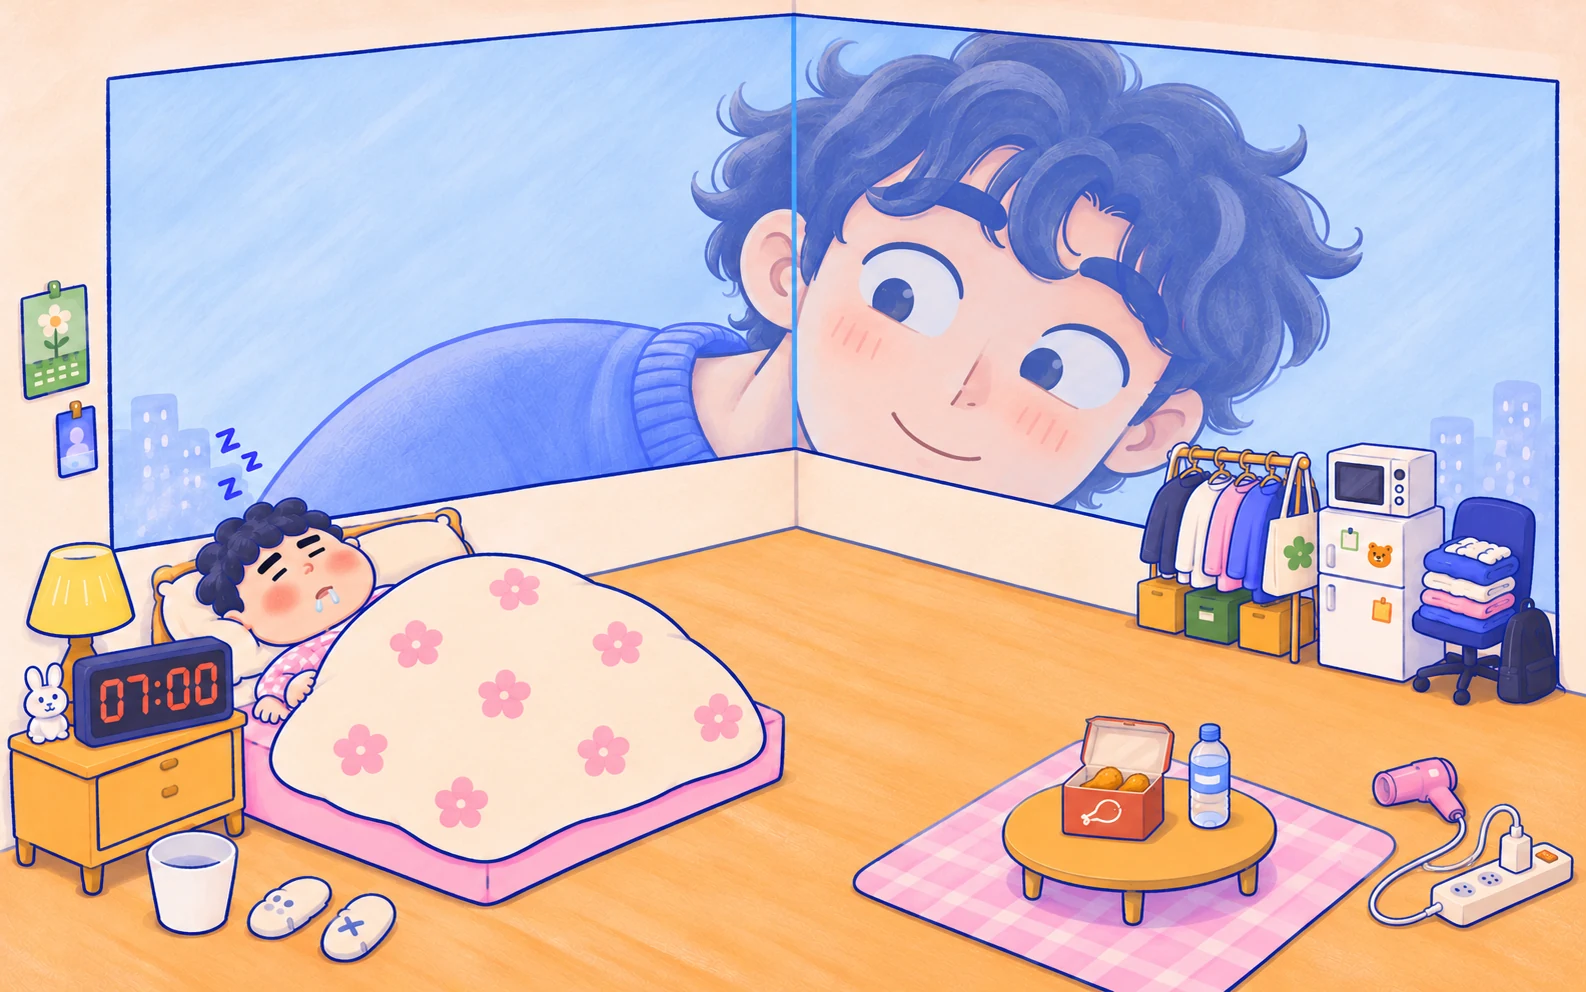
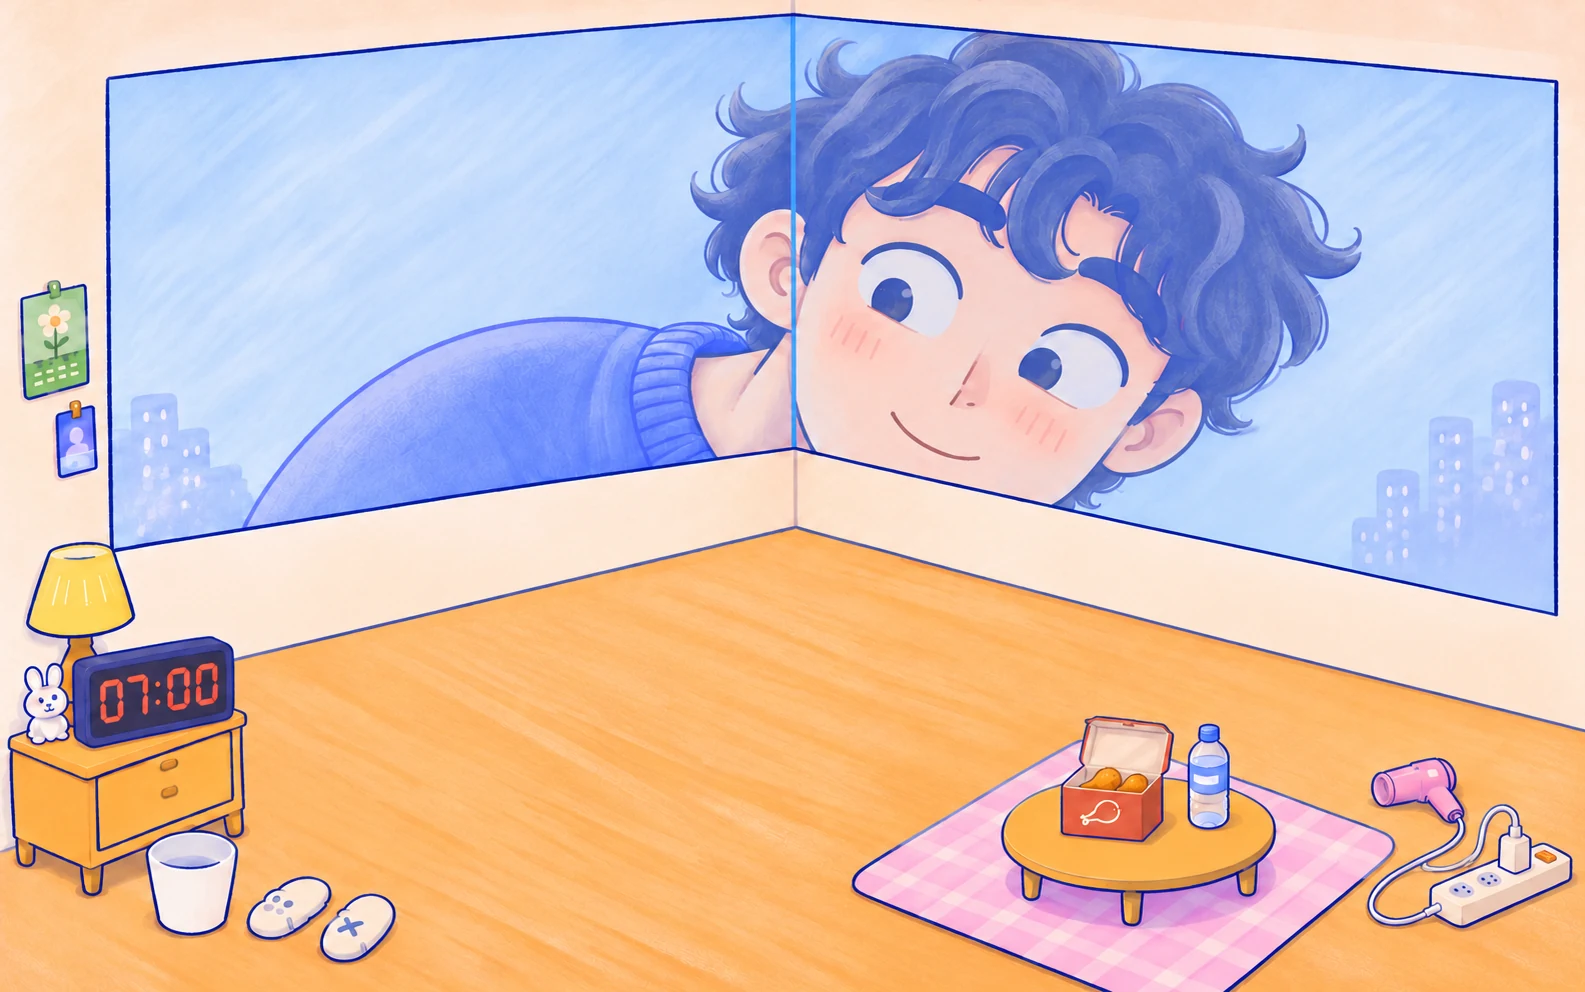
Keep window fixed during stronger comic shake

diff --git a/game-screen.css b/game-screen.css
@@ -15,7 +15,7 @@
 .play-screen:focus { outline: none; }
 
 .game-room {
-  --room-image: url("game-room.webp");
+  --room-image: url("game-room-backdrop.webp");
   position: relative;
   isolation: isolate;
   overflow: hidden;
@@ -25,35 +25,117 @@
   background: #d6e3f9;
   box-shadow: 0 8px 30px #31275723;
 }
-.game-room.camera-example { --room-image: url("game-room-example.webp"); }
-
-.room-art, .quake-layer { position: absolute; inset: 0; pointer-events: none; }
+.room-art, .room-window, .room-pane,
+.quake-layer, .shake-lines { position: absolute; inset: 0; pointer-events: none; }
 .room-art { background: var(--room-image) center / 100% 100% no-repeat; }
 
-/* Soft edges blend the moving areas back into the still window and floor. */
-.quake-layer { visibility: hidden; }
-.quake-bed {
-  mask-image: radial-gradient(ellipse 24% 29% at 31% 71%, #000 78%, transparent 100%), radial-gradient(ellipse 8.5% 13% at 9.8% 69.8%, #000 84%, transparent 100%);
-  mask-composite: subtract;
-  --jolt: 0.85cqw;
+/* The window panes sit on a still backdrop, behind all moving furniture. */
+.room-window { display: none; }
+.camera-example .room-window { display: block; }
+.room-pane {
+  background: url("game-room-example.webp") center / 100% 100% no-repeat;
 }
-.quake-shelf { mask-image: radial-gradient(ellipse 20% 22% at 85% 57%, #000 69%, transparent 100%); --jolt: -0.65cqw; }
+.room-pane-left { clip-path: polygon(7.08% 8.25%, 49.81% 1.62%, 49.81% 44.9%, 7.08% 55.3%); }
+.room-pane-right { clip-path: polygon(50.14% 1.62%, 97.96% 8.34%, 97.96% 61.75%, 50.14% 44.95%); }
+
+/* These two outlines contain the objects themselves, including their painted edges. */
+.quake-object, .room-sleep { --room-image: url("game-room.webp"); }
+.room-sleep { clip-path: polygon(13.35% 42.8%, 15.45% 42.8%, 16.7% 47.4%, 15.46% 47.7%, 15.46% 50.45%, 13.45% 50.45%); }
+.quake-bed {
+  --jolt: 1.46cqw;
+  --tilt: 1.15deg;
+  transform-origin: 30% 86%;
+  clip-path: polygon(
+    9.46% 63.91%, 9.27% 62.10%, 9.53% 60.18%, 9.46% 58.47%, 9.72% 57.46%,
+    10.28% 56.96%, 11.23% 57.16%, 12.24% 56.55%, 12.30% 55.44%, 12.68% 54.64%,
+    13.44% 54.23%, 13.50% 53.63%, 13.82% 52.82%, 14.32% 52.32%, 15.21% 52.12%,
+    15.46% 51.21%, 16.03% 50.60%, 16.78% 50.50%, 17.41% 50.81%, 17.73% 50.40%,
+    18.30% 50.10%, 19.05% 50.10%, 19.62% 50.50%, 20.00% 51.21%, 20.00% 51.71%,
+    20.37% 51.91%, 20.42% 52.42%, 21.39% 52.42%, 21.77% 52.62%, 21.96% 52.92%, 22.59% 53.23%,
+    23.28% 52.92%, 25.99% 52.02%, 27.63% 51.51%, 28.01% 51.11%, 28.52% 51.21%,
+    28.90% 51.61%, 29.15% 52.52%, 29.15% 53.73%, 29.65% 55.04%, 30.79% 55.65%,
+    31.67% 55.54%, 33.38% 55.75%, 35.08% 56.25%, 36.97% 57.46%, 38.36% 58.47%,
+    40.00% 59.58%, 41.51% 60.89%, 42.97% 62.90%, 43.72% 64.11%, 45.05% 65.93%,
+    46.44% 68.15%, 47.57% 70.56%, 49.02% 71.57%, 49.53% 72.28%, 49.53% 77.12%,
+    49.40% 78.43%, 47.19% 80.04%, 42.90% 82.86%, 38.55% 85.58%, 35.14% 88.10%,
+    32.62% 89.92%, 31.17% 91.13%, 30.22% 91.33%, 28.20% 90.63%, 24.48% 88.51%,
+    20.88% 86.59%, 17.54% 84.78%, 15.14% 83.37%, 15.08% 75.60%, 15.52% 72.98%,
+    15.33% 72.08%, 14.64% 71.57%, 14.64% 65.32%, 14.13% 64.52%, 13.50% 64.11%,
+    11.86% 64.31%, 9.46% 65.12%
+  );
+}
+.quake-shelf {
+  --jolt: -1.25cqw;
+  --tilt: -1.35deg;
+  transform-origin: 85% 66%;
+  clip-path: polygon(
+    71.61% 63.10%, 71.55% 58.97%, 71.86% 58.47%, 72.62% 58.27%, 72.68% 56.96%,
+    72.05% 56.85%, 71.80% 56.45%, 71.86% 55.04%, 72.30% 52.82%, 72.49% 50.91%,
+    72.87% 49.60%, 73.44% 48.79%, 73.69% 46.17%, 74.01% 44.96%, 74.51% 44.46%,
+    75.02% 44.56%, 75.33% 44.96%, 81.20% 45.56%, 81.64% 45.36%, 82.08% 45.46%,
+    82.46% 45.97%, 82.65% 46.88%, 82.65% 48.29%, 83.22% 51.21%, 83.60% 51.01%,
+    83.53% 45.77%, 83.79% 45.26%, 85.87% 44.56%, 88.58% 44.86%, 90.35% 45.26%,
+    90.66% 45.67%, 90.60% 51.01%, 91.10% 51.41%, 91.17% 53.43%, 91.42% 53.43%,
+    91.80% 51.41%, 92.30% 50.60%, 93.19% 50.00%, 94.89% 50.10%, 96.09% 50.71%,
+    96.59% 51.51%, 96.85% 52.62%, 96.78% 56.35%, 96.47% 59.38%, 96.91% 59.48%,
+    97.22% 60.38%, 97.22% 61.29%, 97.67% 62.00%, 98.11% 63.81%, 98.30% 67.14%,
+    98.30% 69.25%, 97.98% 70.16%, 97.10% 70.77%, 95.84% 71.07%, 94.89% 70.77%,
+    94.32% 70.36%, 94.26% 69.05%, 93.00% 69.25%, 92.93% 70.36%, 92.62% 71.07%,
+    91.99% 71.17%, 91.55% 70.46%, 91.61% 69.66%, 91.92% 68.65%, 91.48% 68.25%,
+    90.60% 68.55%, 90.28% 69.25%, 89.78% 69.76%, 89.27% 69.76%, 88.90% 69.15%,
+    88.96% 68.25%, 89.15% 67.94%, 88.83% 68.55%, 88.39% 68.95%, 83.15% 67.04%,
+    83.03% 66.23%, 82.15% 65.83%, 82.08% 67.04%, 81.39% 67.14%, 81.01% 66.63%,
+    81.01% 66.33%, 79.43% 66.63%, 77.48% 65.73%, 77.48% 64.92%, 76.53% 65.42%,
+    75.02% 64.92%, 74.01% 64.42%, 73.82% 64.01%, 73.25% 63.91%
+  );
+}
+
+/* Floor-level shake patches never intersect the window. */
+.quake-layer { visibility: hidden; }
 .quake-table {
   mask-image: radial-gradient(ellipse 14% 18% at 72% 83%, #000 69%, transparent 100%), radial-gradient(ellipse 9% 13% at 94% 85%, #000 65%, transparent 100%);
-  --jolt: 0.45cqw;
+  --jolt: 0.7cqw;
 }
-.quake-floor { mask-image: radial-gradient(ellipse 10% 13% at 56% 79%, #000 64%, transparent 100%); --jolt: -0.5cqw; }
+.quake-floor { mask-image: radial-gradient(ellipse 10% 13% at 56% 79%, #000 64%, transparent 100%); --jolt: -0.68cqw; }
 .is-shaking .quake-layer { visibility: visible; }
-.is-shaking .quake-layer .room-art { animation: room-jolt 560ms ease-out both; }
+.is-shaking .quake-object, .is-shaking .quake-layer .room-art { animation: room-jolt 600ms ease-out both; }
 
 @keyframes room-jolt {
   0%, 100% { transform: translate(0); }
-  13% { transform: translate(var(--jolt), -0.33cqw); }
-  29% { transform: translate(calc(-1 * var(--jolt)), 0.14cqw); }
-  45% { transform: translate(calc(0.78 * var(--jolt)), -0.17cqw); }
-  60% { transform: translate(calc(-0.58 * var(--jolt)), 0.1cqw); }
-  74% { transform: translateX(calc(0.38 * var(--jolt))); }
-  86% { transform: translateX(calc(-0.19 * var(--jolt))); }
+  12% { transform: translate(var(--jolt), -0.55cqw) rotate(var(--tilt, 0deg)); }
+  25% { transform: translate(calc(-1 * var(--jolt)), 0.25cqw) rotate(calc(-1 * var(--tilt, 0deg))); }
+  38% { transform: translate(calc(0.85 * var(--jolt)), -0.34cqw) rotate(calc(0.75 * var(--tilt, 0deg))); }
+  51% { transform: translate(calc(-0.64 * var(--jolt)), 0.2cqw) rotate(calc(-0.55 * var(--tilt, 0deg))); }
+  65% { transform: translateX(calc(0.47 * var(--jolt))); }
+  79% { transform: translateX(calc(-0.31 * var(--jolt))); }
+  90% { transform: translateX(calc(0.15 * var(--jolt))); }
+}
+
+.shake-lines span {
+  position: absolute;
+  left: var(--x);
+  top: var(--y);
+  width: 2.7cqw;
+  height: 3.1cqw;
+  color: #364795;
+  opacity: 0;
+  transform: rotate(var(--angle));
+  filter: drop-shadow(0 0 0.12cqw #fff7e9);
+}
+.shake-lines span::before, .shake-lines span::after {
+  content: "";
+  position: absolute;
+  inset: 0;
+  border-left: max(1px, 0.26cqw) solid;
+  border-radius: 50%;
+}
+.shake-lines span::after { inset: 0.5cqw 0 0.45cqw 0.68cqw; }
+.is-shaking .shake-lines span { animation: shake-ink 600ms ease-out both; }
+
+@keyframes shake-ink {
+  0%, 100% { opacity: 0; }
+  12%, 56% { opacity: 0.95; }
+  38% { opacity: 0.72; }
 }
 
 .room-clock {
@@ -141,5 +223,6 @@
 }
 
 @media (prefers-reduced-motion: reduce) {
-  .is-shaking .quake-layer .room-art { animation: none; }
+  .is-shaking .quake-object, .is-shaking .quake-layer .room-art { animation: none; }
+  .is-shaking .shake-lines span { animation: none; opacity: 0.85; }
 }

diff --git a/index.html b/index.html
@@ -57,11 +57,23 @@
 
       <section class="play-screen" id="play-screen" aria-label="게임 화면" tabindex="-1" hidden>
         <div class="game-room" id="game-room" role="group" aria-label="아침의 자취방과 이불 속에 잠든 캐릭터">
-          <div class="room-art" aria-hidden="true"></div>
-          <div class="quake-layer quake-bed" aria-hidden="true"><div class="room-art"></div></div>
-          <div class="quake-layer quake-shelf" aria-hidden="true"><div class="room-art"></div></div>
+          <div class="room-art room-backdrop" aria-hidden="true"></div>
+          <div class="room-window" aria-hidden="true">
+            <div class="room-pane room-pane-left"></div>
+            <div class="room-pane room-pane-right"></div>
+          </div>
+          <div class="room-art room-sleep" aria-hidden="true"></div>
           <div class="quake-layer quake-table" aria-hidden="true"><div class="room-art"></div></div>
           <div class="quake-layer quake-floor" aria-hidden="true"><div class="room-art"></div></div>
+          <div class="room-art quake-object quake-bed" aria-hidden="true"></div>
+          <div class="room-art quake-object quake-shelf" aria-hidden="true"></div>
+          <div class="shake-lines" aria-hidden="true">
+            <span style="--x: 28.8%; --y: 48.3%; --angle: 126deg"></span>
+            <span style="--x: 50.3%; --y: 73%; --angle: 193deg"></span>
+            <span style="--x: 70.2%; --y: 47%; --angle: 12deg"></span>
+            <span style="--x: 89.7%; --y: 40.5%; --angle: 147deg"></span>
+            <span style="--x: 81%; --y: 79%; --angle: 195deg"></span>
+          </div>
           <div class="room-clock" aria-label="게임 속 시각"><time id="game-clock" datetime="07:00">07:00</time></div>
           <span class="camera-example-label" id="camera-preview" hidden>웹캠 합성 예시</span>
           <div class="scene-overlay" id="countdown-overlay" hidden>

diff --git a/README.md b/README.md
@@ -22,7 +22,8 @@
 | `script.js` | 카운트다운, 시계, 졸음 계산과 화면 전환 |
 | `motion-input.js` | 동작 이름과 게임으로 동작을 전달하는 통로 |
 | `bedroom.webp` | 시작과 결과 화면에 쓰이는 침실 |
-| `game-room.webp`, `game-room-example.webp` | v5 구도의 파란 창과 웹캠 합성 예시 |
+| `game-room-backdrop.webp` | 창틀과 파란 통창이 포함된 고정 배경 |
+| `game-room.webp`, `game-room-example.webp` | 움직이는 침대·가구의 원본과 두 유리 안의 합성 예시 |
 
 나중에 MediaPipe Tasks Vision에서 동작 판정을 마치면 `motionInput.emit("shake")`처럼 동작 이름을 전달합니다. `motion-input.js`의 이름 목록에 맞추면 버튼 입력과 같은 통로를 사용합니다.
 
@@ -30,4 +31,4 @@
 
 내장 ImageGen으로 만들었습니다. 첫 번째 참고 이미지의 방 배치, 코발트색 손그림 윤곽선과 종이 질감을 바탕으로 했습니다. 두 번째 이미지에서는 모서리 창과 침대, 옷걸이, 냉장고, 낮은 원형 테이블의 배치를 참고했습니다. 세 번째 이미지에서는 둥근 얼굴, 두꺼운 눈썹, 가늘게 감긴 눈, 분홍빛 볼과 작은 타원형 입을 참고했습니다.
 
-게임의 파란 창 배경은 확정한 v5의 두 통창 안을 아침색 유리로 채우고, 방과 소품의 위치를 유지하는 방향으로 내장 ImageGen에서 만들었습니다.
+게임 배경은 v5 구도를 바탕으로 내장 ImageGen에서 창틀과 바닥을 이어 그려 만들었습니다. `game-screen.css`에서 두 창 안의 영상 자리와 침대·가구의 윤곽을 따로 지정해, 흔들기 중에도 창은 고정됩니다.
